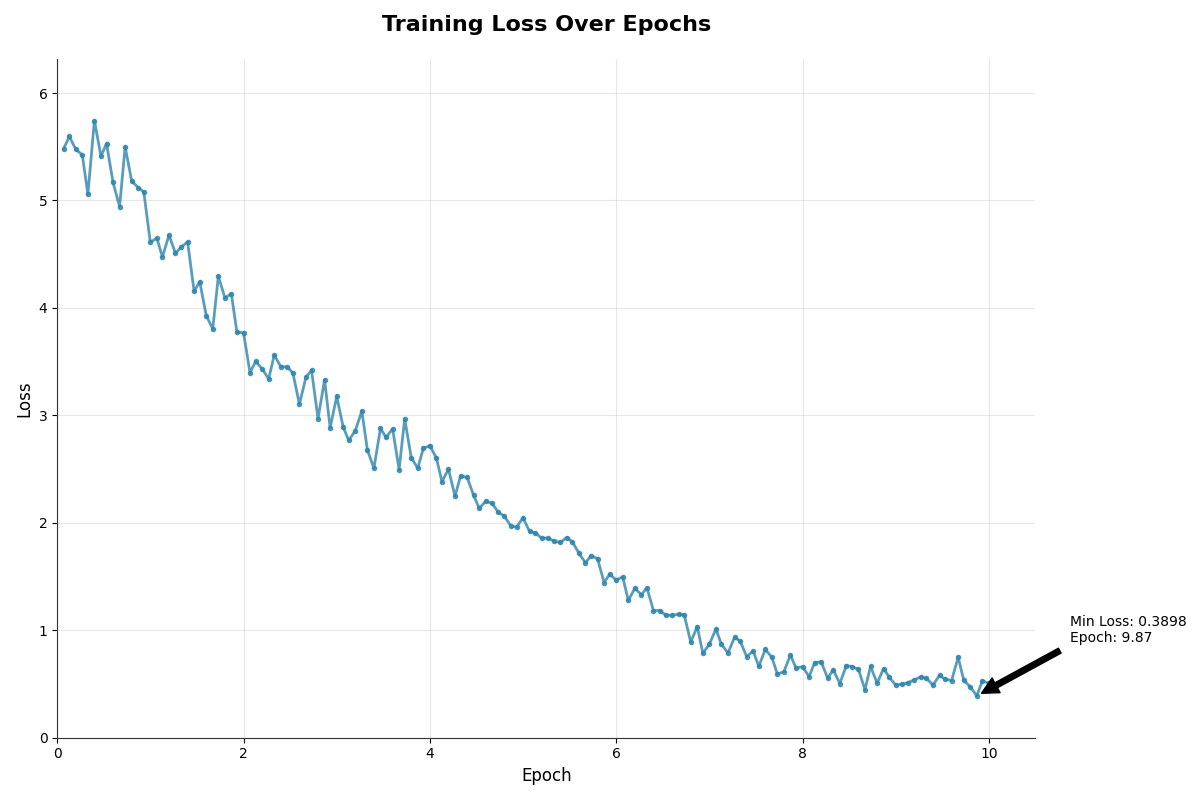
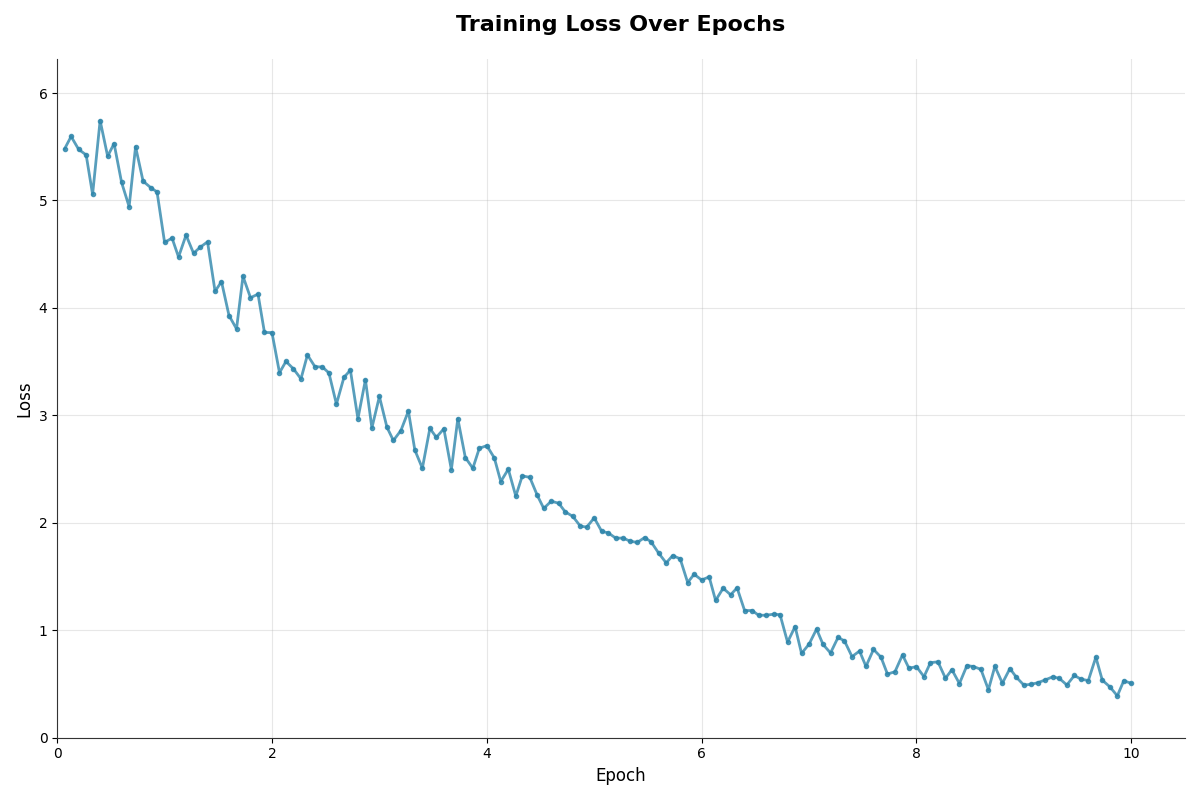
Remove loss plot annotations and update images
Removed key point annotations from loss_plot.py for a cleaner plot. Updated minimalist_loss.png and added training_loss_plot.png to reflect the changes.

diff --git a/fine_tuning_minimalist/loss_plot.py b/fine_tuning_minimalist/loss_plot.py
@@ -179,16 +179,6 @@ plt.gca().spines['bottom'].set_color('#333333')
 plt.xlim(0, 10.5)
 plt.ylim(0, max(losses) * 1.1)
 
-# Add annotations for key points
-min_loss_idx = losses.index(min(losses))
-min_loss_epoch = epochs[min_loss_idx]
-min_loss_value = losses[min_loss_idx]
-
-plt.annotate(f'Min Loss: {min_loss_value:.4f}\nEpoch: {min_loss_epoch:.2f}', 
-             xy=(min_loss_epoch, min_loss_value), 
-             xytext=(min_loss_epoch + 1, min_loss_value + 0.5),
-             arrowprops=dict(facecolor='black', shrink=0.05),
-                fontsize=10, color='black', bbox=dict(facecolor='white', alpha=0.8, edgecolor='none'))
 
 # Show the plot
 plt.tight_layout()
